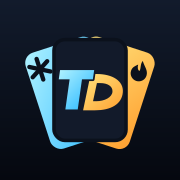
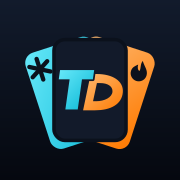
Update TechDeck brand assets and bump cache version to v2.

Changed region(s): [[0.1389, 0.25, 0.8611, 0.8333], [0.5, 0.1944, 0.5556, 0.2222], [0.4444, 0.1944, 0.4722, 0.2222]]

diff --git a/frontend/constants/techdeckBrandAssets.js b/frontend/constants/techdeckBrandAssets.js
@@ -1,5 +1,5 @@
 /** TechDeck brand assets under /public/techdeck-brand */
-export const TECHDECK_BRAND_VERSION = 1;
+export const TECHDECK_BRAND_VERSION = 2;
 
 const v = `?v=${TECHDECK_BRAND_VERSION}`;
 

diff --git a/frontend/public/techdeck-brand/README.md b/frontend/public/techdeck-brand/README.md
@@ -1,0 +1,44 @@
+# TechDeck brand files
+
+All lettering is converted to shapes, so nothing depends on Exo 2 being installed.
+
+## Files
+
+| File | Use |
+|---|---|
+| `apple-touch-icon.png` (180) | iPhone/iPad home screen icon |
+| `icon-192.png`, `icon-512.png` | PWA manifest icons |
+| `techdeck-icon.svg` | Master app icon (square — iOS rounds the corners itself) |
+| `favicon.svg` | Browser tab icon (Safari, Chrome, Firefox all support SVG) |
+| `favicon-32.png`, `favicon-16.png`, `favicon.ico` | Fallbacks for older browsers |
+| `techdeck-lockup.svg` / `.png` | Icon + wordmark, for dark backgrounds (site header) |
+| `techdeck-lockup-light.svg` / `.png` | Icon + wordmark, for white backgrounds (invoices, paperwork) |
+| `techdeck-wordmark.svg` | Wordmark only, dark backgrounds |
+| `techdeck-wordmark-light.svg` | Wordmark only, white backgrounds |
+
+## Drop into `<head>`
+
+```html
+<link rel="icon" href="/favicon.svg" type="image/svg+xml">
+<link rel="icon" href="/favicon-32.png" sizes="32x32" type="image/png">
+<link rel="icon" href="/favicon.ico" sizes="any">
+<link rel="apple-touch-icon" href="/apple-touch-icon.png">
+<meta name="theme-color" content="#0A0D14">
+```
+
+## Manifest icons
+
+```json
+"icons": [
+  { "src": "/icon-192.png", "sizes": "192x192", "type": "image/png" },
+  { "src": "/icon-512.png", "sizes": "512x512", "type": "image/png" }
+]
+```
+
+## Colors (matched to the TechDeck UI)
+
+- Cyan: `#67E8F9` → `#06B6D4` (centered on the app accent `#22D3EE`)
+- Orange: `#FDBA74` → `#FF7A00` (matches app accents `#FB923C` / `#FF7A00`)
+- Background: `#121B2C` → `#05080F`
+- On white: blue `#0A7FC4`, orange `#D27000`
+- Wordmark font: Exo 2 ExtraBold Italic, custom D. Monogram: Exo 2 Black Italic T, custom D.
